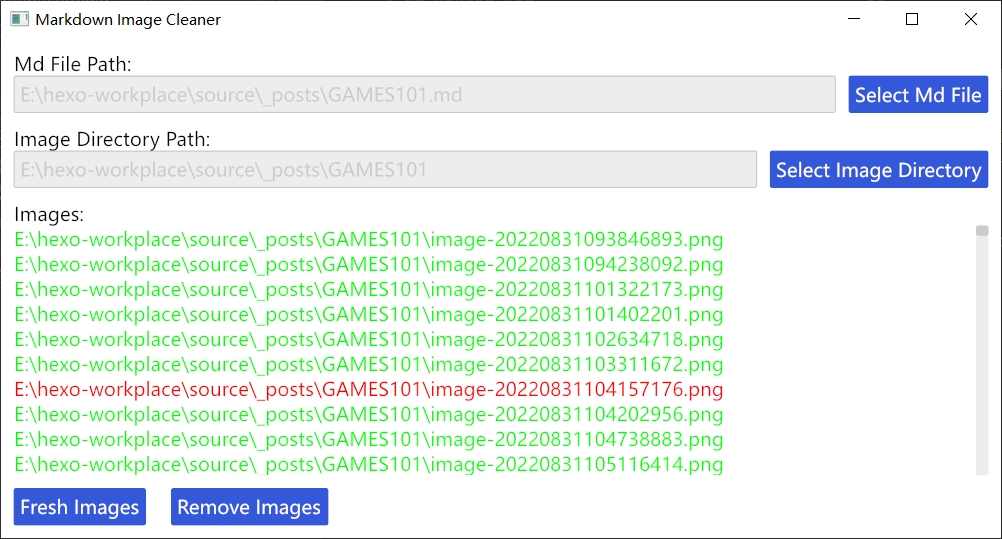
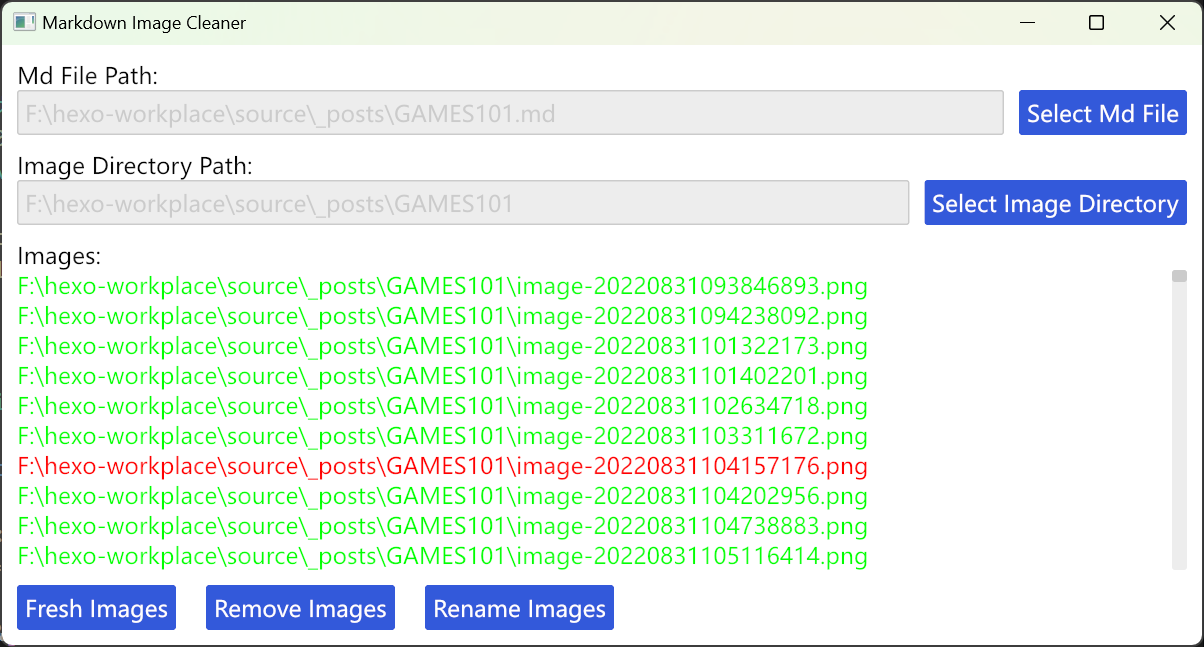
📃 docs: rename image docs

diff --git a/README.md b/README.md
@@ -15,6 +15,9 @@ it is useful when you use Editor like Typora and set auto copy image to a direct
 3. if auto check failed, or you want to check other directory, you can input the directory manually.
 4. then the images in the directory will be listed. green is used, red is unused.
 5. click remove button to remove unused images.
+6. click refresh button to refresh the list.
+7. click rename button to rename the image.
+   - rename the images with 1.xxx, 2.xxx, 3.xxx, ...
 
 ## Preview
 
